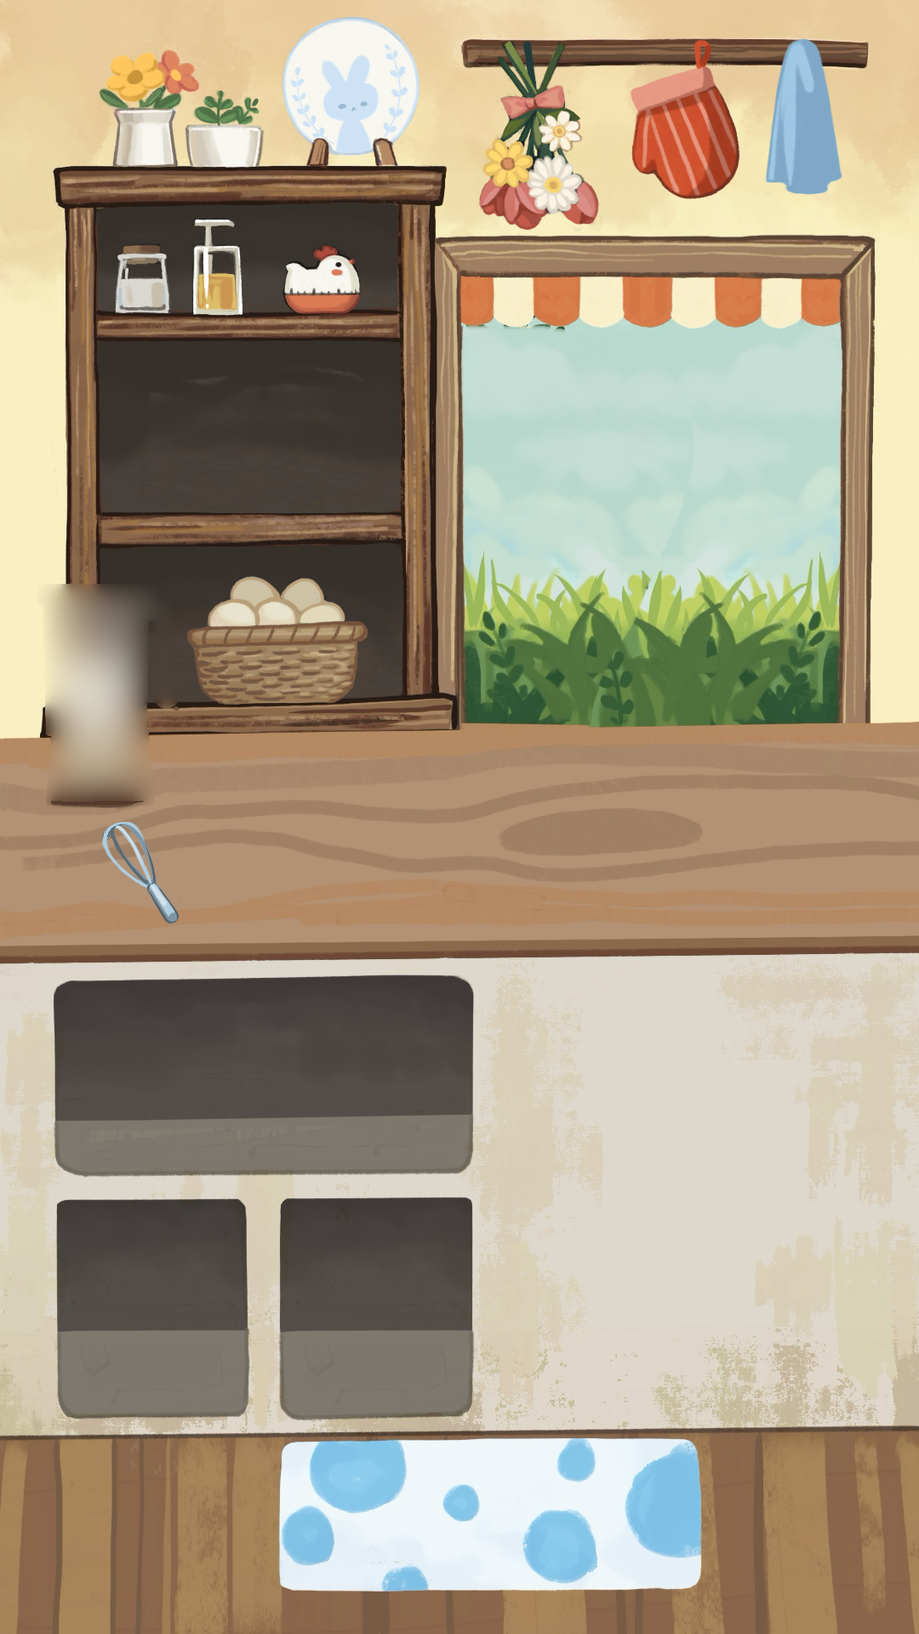
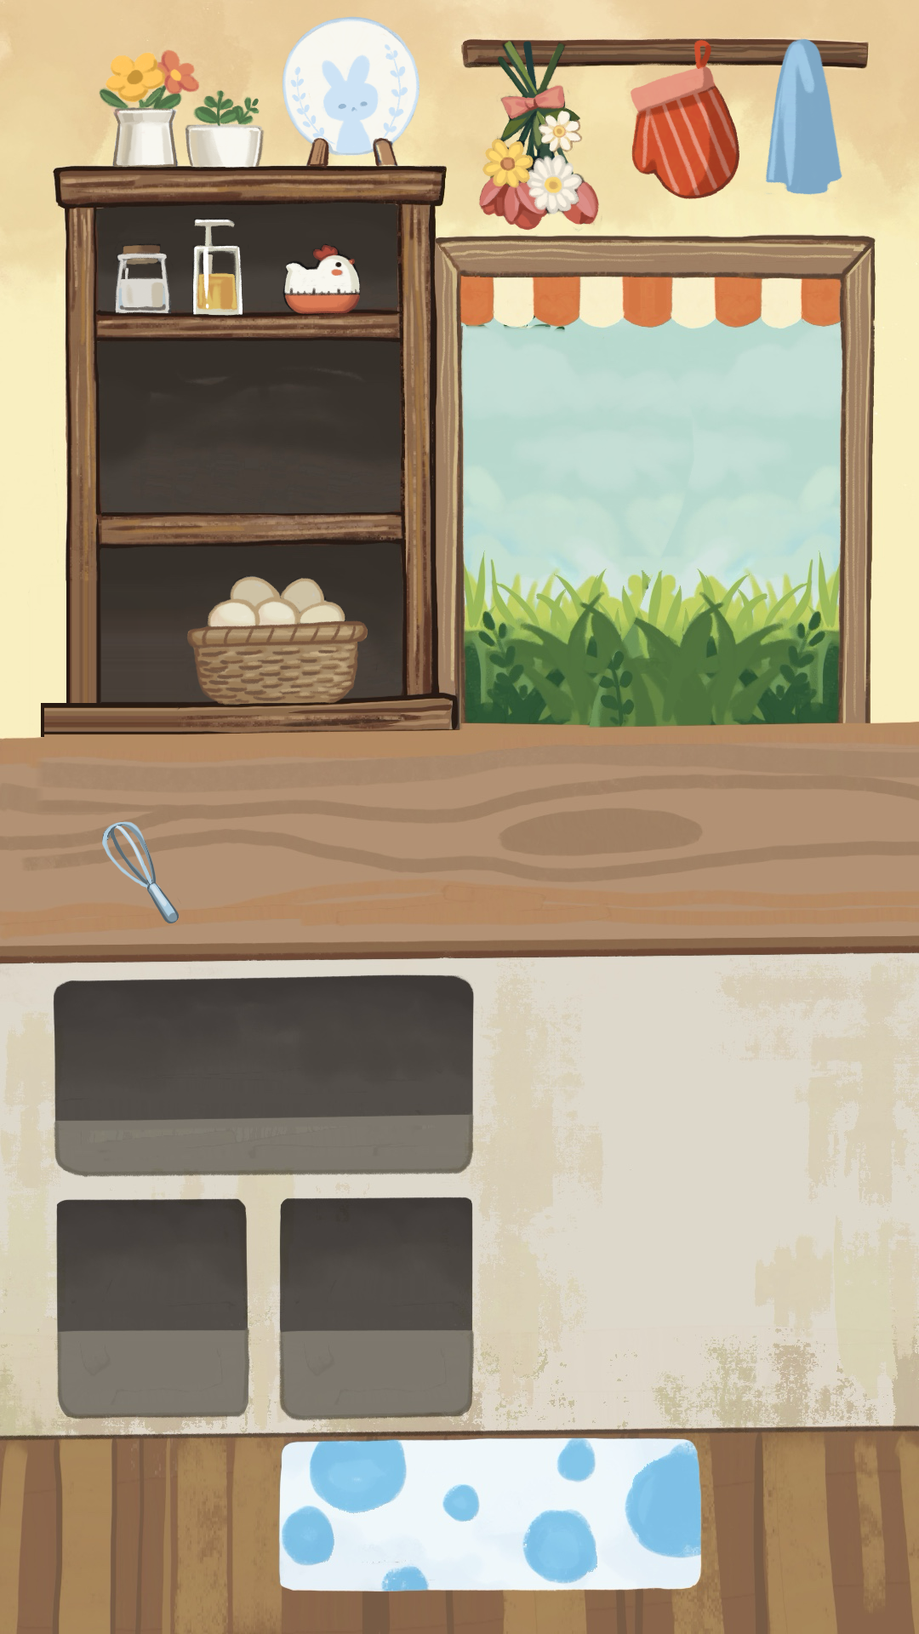
15 November: kitchen blender's blurred patch repainted, truck stands still with a window light that blinks while the kitchen cooks, patience flowers larger; background-layer analysis and demos on the report
- kitchen_bg_notree.png: the old blender's blurred patch (wider than the blender picture laid over it) rebuilt from the
  wall, window post, sill and counter around it (Store/kitchen_blender_patch_2026-11-15/patch_blender_smear.py).
- Truck: BalatroWobble switched off at setup; DayNightTint's window lights are off by day, steady warm at dusk and
  night, and blink while OvenKitchenBase.AnyBaking, the blender or the kitchen waffle machine runs.
- PatienceMeter.Scale 0.65 -> 0.8.
- Report: how each chapter's background is built, five demo layers between customers and table (shown live through
  Docs/tools/autoplay/bglayer_demo.py, art in Store/bg_layer_2026-11-15; nothing of it in the project).
No build (owner: not until told).

Changed region(s): [[0.0306, 0.3438, 0.1833, 0.5]]

diff --git a/Docs/tools/report_page/index.html b/Docs/tools/report_page/index.html
@@ -80,15 +80,110 @@ h3 small{font-weight:600;color:var(--soft);font-size:13px;margin-left:6px}
 <div class="grid">
 <div class="who p1"><h3>You</h3>
 <p><b>Test build 26.11.21 (31)</b> on TestFlight: your test runs today.</p>
+<p><b>Today's fixes, in no build yet</b> (Current): the kitchen blender's blurry edge, the truck's window light, larger patience flowers.</p>
+<p><b>Background layer:</b> the analysis and five demos are in Current; pick per chapter.</p>
 <p><b>What's New words</b> for the release (Current).</p>
 <p><b>At Apple:</b> build 28 went from waiting to "In Review" this morning. Untouched.</p></div>
-<div class="who p2"><h3>Me</h3><p>Fix what your test runs find. Nothing goes to Apple before your word.</p></div>
+<div class="who p2"><h3>Me</h3><p>Build the background layer you pick. No build and nothing to Apple before your word.</p></div>
 </div>
 
 <h2 id="qa"><span class="n">2</span>Q&amp;A</h2>
 <p class="sub" style="margin:0 0 8px">Nothing open.</p>
 
 <h2 id="current"><span class="n">3</span>Current</h2>
+
+<div class="card">
+<p style="margin-top:0"><b>Kitchen blender's blurry left edge: found and fixed, 15 November.</b> What was wrong: the kitchen background still had the old blender under the new one, blurred out as a patch. That patch is wider than the blender picture on top, so the blur showed at its left (and more when the blender shakes). The blender picture itself was cut correctly.</p>
+<figure><img src="blender_ba.jpg" alt="The blender before, with a blurred smear at its left, and after, clean"><figcaption>Before and after, chapter 2 kitchen in the editor. I repainted the patch from the picture around it: wall, window post, sill and counter.</figcaption></figure>
+<ul class="checks">
+<li><label><input type="checkbox" data-id="cur.blender.ship"> Good to ship</label></li>
+<li><label><input type="checkbox" data-id="cur.blender.redo"> Not yet, I will say what</label></li>
+</ul>
+</div>
+
+<div class="card">
+<p style="margin-top:0"><b>Truck: no wiggle, and a window light with three states, 15 November.</b></p>
+<figure><img src="truck_light.jpg" alt="The truck with its window dark, and with the window lit"><figcaption>Left: kitchen idle by day, light off. Right: the light on, as it shows while blinking and at night.</figcaption></figure>
+<ul>
+<li><b>Off:</b> by day, when the kitchen is making nothing.</li>
+<li><b>Blinking:</b> while the kitchen cooks: an oven baking, the blender or the waffle machine running. By day and by night, a little faster than once a second.</li>
+<li><b>Warm yellow, steady:</b> from dusk into night. This light was already there; it now gives way to the blink while something cooks.</li>
+<li>Checked in the editor: the truck stands still; the light read off, then swung between dim and bright during an 8-second bread bake, and was steady with the night forced.</li>
+<li>Kept: the glow around the truck when a food runs out.</li>
+</ul>
+<ul class="checks">
+<li><label><input type="checkbox" data-id="cur.trucklight.ship"> Good to ship</label></li>
+<li><label><input type="checkbox" data-id="cur.trucklight.redo"> Change it, I will say what</label></li>
+</ul>
+</div>
+
+<div class="card">
+<p style="margin-top:0"><b>Patience flowers larger, 15 November.</b> About a quarter bigger.</p>
+<figure><img src="flowers_ba.jpg" alt="Order bubbles with small flowers before and larger flowers after"><figcaption>Before and after.</figcaption></figure>
+<ul class="checks">
+<li><label><input type="checkbox" data-id="cur.flowers.ship"> Good to ship</label></li>
+<li><label><input type="checkbox" data-id="cur.flowers.bigger"> Bigger still</label></li>
+<li><label><input type="checkbox" data-id="cur.flowers.redo"> Not yet, I will say what</label></li>
+</ul>
+</div>
+
+<div class="card">
+<p style="margin-top:0"><b>A picture layer between the customers and the table: analysis and demos, 15 November.</b> Nothing is changed in the game. The demos were shown live in the editor, between the customers and the table, and are not saved.</p>
+
+<p style="margin:10px 0 4px"><b>Chapter 1, how the painting is built, from the back to the front:</b></p>
+<div class="two">
+<figure><img src="bg_ch1_parts.jpg" alt="Chapter 1 background with its parts numbered 1 to 8"></figure>
+<ul>
+<li><b>1</b> Sky, a pale wash.</li>
+<li><b>2</b> Two tree trunks at the sides.</li>
+<li><b>3</b> Their crowns, with large flat leaves hanging into the picture.</li>
+<li><b>4</b> A row of round bushes with leaf sprigs.</li>
+<li><b>5</b> Tall dark blades and wheat stalks, mostly at the sides.</li>
+<li><b>6</b> The lawn, one flat yellow-green.</li>
+<li><b>7</b> The near grass: soft dark tufts with thin upright strokes.</li>
+<li><b>8</b> The table.</li>
+<li><b>Style:</b> flat shapes, no outlines, soft watercolour edges, four greens, darker and softer towards the front.</li>
+<li><b>What is missing:</b> the near grass (7) is part of the flat picture, so customers stand on top of it. Nothing overlaps them, and they look pasted on. Grass in front of them puts them in the grass.</li>
+</ul>
+</div>
+<figure><img src="bg_ch1_demos.jpg" alt="Chapter 1: now, and three demos with grass in front of the customer"><figcaption><b>A</b> the painting's own near grass, lifted off the lawn, so the style is the painting's. <b>B</b> grass I painted to match, taller at the sides. <b>C</b> tall blades at the sides only, the middle clear.</figcaption></figure>
+<ul class="checks">
+<li><label><input type="checkbox" data-id="cur.bg1.a"> Chapter 1: A</label></li>
+<li><label><input type="checkbox" data-id="cur.bg1.b"> Chapter 1: B</label></li>
+<li><label><input type="checkbox" data-id="cur.bg1.c"> Chapter 1: C</label></li>
+<li><label><input type="checkbox" data-id="cur.bg1.redo"> None, I will say what</label></li>
+</ul>
+
+<p style="margin:14px 0 4px"><b>Chapter 2:</b></p>
+<div class="two">
+<figure><img src="bg_ch2_parts.jpg" alt="Chapter 2 background with its parts numbered 1 to 8; the white line is where the table starts"></figure>
+<ul>
+<li><b>1</b> Sky and clouds. <b>2</b> Palms in the top corners. <b>3</b> The sea. <b>4</b> The foam line.</li>
+<li><b>5</b> A thin strip of sand, all that shows above the table (the white line).</li>
+<li><b>6</b> Plants at the sides.</li>
+<li><b>7</b> Plants and shells in the lower corners. The table hides them; players never see them.</li>
+<li><b>8</b> Sand under the table.</li>
+<li><b>Style:</b> soft gouache, pastel colours, no outlines.</li>
+</ul>
+</div>
+<figure><img src="bg_ch2_demos.jpg" alt="Chapter 2: now, and two demos with plants and shells in front of the customer"><figcaption><b>A</b> the painting's own hidden plants and shells, moved up to the table's edge in the corners. <b>B</b> the same smaller, with two small groups nearer the middle.</figcaption></figure>
+<ul class="checks">
+<li><label><input type="checkbox" data-id="cur.bg2.a"> Chapter 2: A</label></li>
+<li><label><input type="checkbox" data-id="cur.bg2.b"> Chapter 2: B</label></li>
+<li><label><input type="checkbox" data-id="cur.bg2.redo"> None, I will say what</label></li>
+</ul>
+
+<p style="margin:14px 0 4px"><b>How the layer goes in:</b></p>
+<ul>
+<li>One see-through strip per chapter, as wide as the screen, standing on the table's far edge. It is drawn after the customers and before the table. The hen, the jar and the truck stay in front of it; the yoga lady stays behind it.</li>
+<li>Low in the middle, so faces and order bubbles stay clear; it can be taller at the sides.</li>
+<li>Still to do once you pick: it must darken with evening and night like the background, and it could sway a little.</li>
+<li><b>What I see in the demos:</b> in chapter 1, A hides a short customer up to the shoulders, so its height needs tuning; B's blades are sharper than the painting's brush strokes.</li>
+</ul>
+<ul class="checks">
+<li><label><input type="checkbox" data-id="cur.bg.gpt"> Also ask ChatGPT to paint versions from a brief</label></li>
+</ul>
+</div>
 
 <div class="card">
 <p style="margin-top:0"><b>What's New for the next release: your words needed.</b> Nothing is changed at Apple; the store still says "Bug fixes". It goes in with the next release, in the words you choose.</p>

diff --git a/Docs/tools/autoplay/truck_test.py b/Docs/tools/autoplay/truck_test.py
@@ -1,0 +1,39 @@
+"""Truck window light and patience flower check (15 November 2026): day 1; the truck at rest (wiggle off, light off), a
+bake started in the kitchen (light blinking), the night stage forced (steady warm light), and the flowers' new size."""
+import sys, time, re
+sys.path.insert(0, "/Users/betzthebest/Desktop/Sept/FoodTruckCafe/Docs/tools")
+import unity_mcp as U
[1 lines of base64/hex data omitted]
+def res(t):
+    m = re.search(r'"result":"(.*?)","compiler"', t, re.S); return m.group(1) if m else t[-700:]
+def ex(code): return res(U.call("execute_code", {"action": "execute", "code": code}))
+def snap(n): ex('ScreenCapture.CaptureScreenshot("/tmp/ftc/popframes/%s.png"); return "snap";' % n); time.sleep(1.0)
+TRUCK = '''var b = GameObject.Find("KitchenButton"); var rt = (RectTransform)b.transform; var w = b.GetComponent<BalatroWobble>(); var sb = new System.Text.StringBuilder();
+sb.Append("wobble " + (w == null ? "none" : (w.enabled ? "ON" : "off")) + " pos " + rt.anchoredPosition.ToString("F2") + " rot " + rt.localEulerAngles.z.ToString("F2") + " scale " + rt.localScale.x.ToString("F3") + " lights");
+foreach (Transform t in rt) if (t.name == "WindowLight") sb.Append(" " + t.GetComponent<UnityEngine.UI.Image>().color.a.ToString("F2"));
+sb.Append(" baking " + OvenKitchenBase.AnyBaking() + " stage " + DayNightTint.CurrentStage.ToString("F2")); return sb.ToString();'''
+U.call("manage_editor", {"action": "stop"}); time.sleep(2)
+U.call("manage_editor", {"action": "play"}); time.sleep(9)
+print(ex(open("/tmp/ftc/setup_day1.cs").read()))
+print(ex(open(A + "goday.cs").read().replace("DAY", "0"))); time.sleep(8)
+print(ex(open(A + "startday.cs").read())); time.sleep(5.0)
+for i in range(3): print("idle:", ex(TRUCK)); time.sleep(0.7)
+snap("truck_idle")
+print(ex('KitchenSceneManager.Instance.OpenKitchen(); return "kitchen open";')); time.sleep(1.5)
+print(ex('''foreach (var o in UnityEngine.Object.FindObjectsOfType<OvenKitchenBase>()) { o.StartBake("Bread"); if (o.IsBaking) return "baking in " + o.name + " for " + o.BakeTime + " s"; } return "no oven started";''')); time.sleep(0.8)
+print(ex('KitchenSceneManager.Instance.CloseKitchen(); return "kitchen closed";')); time.sleep(1.0)
+vals = []
+for i in range(10):
+    r = ex(TRUCK); vals.append(r.split("lights")[1].split(" baking")[0].strip()); 
+    if i in (0, 9): print("cooking:", r)
+    time.sleep(0.13)
+print("light over 10 reads:", " | ".join(vals))
+for i in range(8):
+    r = ex('var b = GameObject.Find("KitchenButton"); float a = 0f; foreach (Transform t in b.transform) if (t.name == "WindowLight") a = Mathf.Max(a, t.GetComponent<UnityEngine.UI.Image>().color.a); if (a %s) { ScreenCapture.CaptureScreenshot("/tmp/ftc/popframes/truck_cook_%s.png"); return "snap at " + a.ToString("F2"); } return "wait " + a.ToString("F2");' % (("> 0.85f", "on") if i < 4 else ("< 0.2f", "off")))
+    if r.startswith("snap"): print(r); time.sleep(1.0); 
+    else: time.sleep(0.11)
+print(ex('''var dn = UnityEngine.Object.FindObjectOfType<DayNightTint>(); var F = System.Reflection.BindingFlags.NonPublic | System.Reflection.BindingFlags.Instance;
+typeof(DayNightTint).GetField("stage", F).SetValue(dn, 2f); typeof(DayNightTint).GetField("kitchenCooking", F).SetValue(dn, false); typeof(DayNightTint).GetField("cookingCheckAt", F).SetValue(dn, Time.unscaledTime + 5f);
+typeof(DayNightTint).GetMethod("UpdateNightLights", F).Invoke(dn, null); var b = GameObject.Find("KitchenButton"); var sb = new System.Text.StringBuilder("night, not cooking: lights");
+foreach (Transform t in b.transform) if (t.name == "WindowLight") sb.Append(" " + t.GetComponent<UnityEngine.UI.Image>().color.a.ToString("F2")); return sb.ToString();'''))
+U.call("manage_editor", {"action": "stop"})

diff --git a/Docs/tools/autoplay/blender_probe.py b/Docs/tools/autoplay/blender_probe.py
@@ -1,0 +1,30 @@
+import sys, time, re
+sys.path.insert(0, "/Users/betzthebest/Desktop/Sept/FoodTruckCafe/Docs/tools")
+import unity_mcp as U
[1 lines of base64/hex data omitted]
+def res(t):
+    m = re.search(r'"result":"(.*?)","compiler"', t, re.S); return m.group(1) if m else t[-700:]
+def ex(code): return res(U.call("execute_code", {"action": "execute", "code": code}))
+tag = sys.argv[1]
+U.call("manage_editor", {"action": "stop"}); time.sleep(2)
+U.call("manage_editor", {"action": "play"}); time.sleep(9)
+print(ex(open("/tmp/ftc/setup_day1.cs").read()))
+print(ex('var s = SessionManager.Instance.GetCurrentSession(); s.levelsCompleted = 12; s.tutorial2Seen = true; return "ch2";'))
+print(ex(open(A + "goday.cs").read().replace("DAY", "12"))); time.sleep(8)
+for _ in range(12):
+    r = ex(open(A + "tutstep.cs").read())
+    if r == "T|none": break
+    time.sleep(1.0)
+print(ex(open(A + "startday.cs").read())); time.sleep(1.5)
+print(ex('KitchenSceneManager.Instance.OpenKitchen(); return "open";')); time.sleep(2.0)
+print(ex('''var sb = new System.Text.StringBuilder(); var b = GameObject.Find("Blender"); if (b == null) return "no blender";
+var rt = (RectTransform)b.transform; var img = b.GetComponent<UnityEngine.UI.Image>(); var c = new Vector3[4]; rt.GetWorldCorners(c);
+var cam = b.GetComponentInParent<Canvas>().worldCamera; Vector2 p0 = RectTransformUtility.WorldToScreenPoint(cam, c[0]), p2 = RectTransformUtility.WorldToScreenPoint(cam, c[2]);
+sb.Append("blender sprite " + img.sprite.name + " " + img.sprite.rect.size + " tex " + img.sprite.texture.width + "x" + img.sprite.texture.height + " format " + img.sprite.texture.format + " filter " + img.sprite.texture.filterMode + " screen box " + p0.ToString("F1") + " .. " + p2.ToString("F1") + " screen " + Screen.width + "x" + Screen.height + " | ");
+var bg = b.transform.parent; var bi = bg.GetComponent<UnityEngine.UI.Image>(); sb.Append("bg sprite " + (bi != null && bi.sprite != null ? bi.sprite.name + " " + bi.sprite.rect.size + " preserve " + bi.preserveAspect + " format " + bi.sprite.texture.format : "none") + " bg rect " + ((RectTransform)bg).rect.size + " | ");
+foreach (Transform t in b.transform) { var ti = t.GetComponent<UnityEngine.UI.Image>(); sb.Append(t.name + (ti != null && ti.sprite != null ? " " + ti.sprite.name + " color " + ti.color : "") + "; "); }
+return sb.ToString();'''))
+ex('ScreenCapture.CaptureScreenshot("/tmp/ftc/popframes/blender_%s.png"); return "snap";' % tag); time.sleep(1.5)
+print(ex('var b = GameObject.Find("Blender"); b.GetComponent<UnityEngine.UI.Image>().enabled = false; foreach (Transform t in b.transform) t.gameObject.SetActive(false); return "overlay hidden";')); time.sleep(0.5)
+ex('ScreenCapture.CaptureScreenshot("/tmp/ftc/popframes/blender_%s_bgonly.png"); return "snap";' % tag); time.sleep(1.5)
+U.call("manage_editor", {"action": "stop"})

diff --git a/Docs/tools/autoplay/bglayer_demo.py b/Docs/tools/autoplay/bglayer_demo.py
@@ -1,0 +1,36 @@
+"""Demo of a picture layer between the customers and the table (15 November 2026): strips from Store/bg_layer_2026-11-15/out
+are shown on the sorting layer between Default (customers) and Table, in a running day, and captured. Nothing is saved
+in the project. Usage: bglayer_demo.py <chapter 1|2> name[:yOffset] ..."""
+import sys, time, re
+sys.path.insert(0, "/Users/betzthebest/Desktop/Sept/FoodTruckCafe/Docs/tools")
+import unity_mcp as U
[1 lines of base64/hex data omitted]
+O = "/Users/betzthebest/Desktop/Sept/Store/bg_layer_2026-11-15/out/"
+def res(t):
+    m = re.search(r'"result":"(.*?)","compiler"', t, re.S); return m.group(1) if m else t[-600:]
+def ex(code): return res(U.call("execute_code", {"action": "execute", "code": code}))
+ch = sys.argv[1]
+U.call("manage_editor", {"action": "stop"}); time.sleep(2)
+U.call("manage_editor", {"action": "play"}); time.sleep(9)
+print(ex(open("/tmp/ftc/setup_day1.cs").read()))
+if ch == "2": print(ex('var s = SessionManager.Instance.GetCurrentSession(); s.levelsCompleted = 12; s.tutorial2Seen = true; return "ch2";'))
+print(ex(open(A + "goday.cs").read().replace("DAY", "12" if ch == "2" else "0"))); time.sleep(8)
+for _ in range(12):
+    r = ex(open(A + "tutstep.cs").read())
+    if r == "T|none": break
+    time.sleep(1.0)
+print(ex(open(A + "startday.cs").read())); time.sleep(6.5)
+ex('Time.timeScale = 0.02f; return "slow";')
+ex('ScreenCapture.CaptureScreenshot("/tmp/ftc/popframes/bgl_ch%s_none.png"); return "snap";' % ch); time.sleep(1.2)
+SHOW = '''var old = GameObject.Find("BgLayerDemo"); if (old != null) UnityEngine.Object.DestroyImmediate(old);
+var tex = new Texture2D(2, 2, TextureFormat.RGBA32, false); tex.LoadImage(System.IO.File.ReadAllBytes("PATH")); tex.wrapMode = TextureWrapMode.Clamp;
+var sp = Sprite.Create(tex, new Rect(0, 0, tex.width, tex.height), new Vector2(0.5f, 0f), tex.width / 4.6f);
+var go = new GameObject("BgLayerDemo"); go.transform.position = new Vector3(0f, YOFFf, 0f);
+var sr = go.AddComponent<SpriteRenderer>(); sr.sprite = sp; sr.sortingLayerName = "Customoers"; sr.sortingOrder = 0;
+return "shown " + tex.width + "x" + tex.height + " layer " + sr.sortingLayerName + " customers " + UnityEngine.Object.FindObjectsOfType<CustomerController>().Length;'''
+for a in sys.argv[2:]:
+    name, _, yo = a.partition(":"); yo = yo or "-0.06"
+    print(name, ex(SHOW.replace("PATH", O + name + ".png").replace("YOFF", yo))); time.sleep(0.6)
+    ex('ScreenCapture.CaptureScreenshot("/tmp/ftc/popframes/bgl_ch%s_%s.png"); return "snap";' % (ch, name)); time.sleep(1.2)
+ex('Time.timeScale = 1f; return "speed";')
+U.call("manage_editor", {"action": "stop"})

diff --git a/Assets/Scripts/LevelControl/DayNightTint.cs b/Assets/Scripts/LevelControl/DayNightTint.cs
@@ -312,14 +312,33 @@ public class DayNightTint : MonoBehaviour
         // chapter 2 has no extra light of its own (owner, 10 November: "keep the fireflies, drop the lantern lights")
     }
 
+    // The truck's window light has three states (owner, 15 November 2026: "When the kitchen isn't making anything, I
+    // want the light to be off, when it is cooking something, give it a blinking light. At night, give it a warm
+    // yellow light"): off by day, a steady warm yellow at dusk and night, and blinking while the kitchen cooks (an
+    // oven baking, the blender or the kitchen's waffle machine running), by day and by night.
+    private bool kitchenCooking; private float cookingCheckAt;
+    private const float BlinkPerSecond = 1.4f;
+
+    private static bool KitchenIsCooking()
+    {
+        if (OvenKitchenBase.AnyBaking()) return true;
+        var blender = FindObjectOfType<BlenderAnim>(); if (blender != null && blender.IsBlending) return true;
+        var waffle = FindObjectOfType<WaffleAnim>(); return waffle != null && waffle.IsBaking;
+    }
+
     private void UpdateNightLights()
     {
         var k = stage <= 1f ? 0.6f * stage : 0.6f + 0.4f * (stage - 1f);   // dusk 0.6, night 1
         var t = Time.time;
+        if (Time.unscaledTime >= cookingCheckAt) { cookingCheckAt = Time.unscaledTime + 0.25f; kitchenCooking = KitchenIsCooking(); }
+        // the blink: on for half of each beat with soft edges, between almost dark and bright
+        var beat = (Time.unscaledTime * BlinkPerSecond) % 1f;
+        var blink = kitchenCooking ? Mathf.Lerp(0.12f, 0.95f, Mathf.SmoothStep(0f, 1f, Mathf.Clamp01(Mathf.Min(beat, 1f - beat) * 8f - 1f))) : 0f;
         for (var i = 0; i < truckLights.Count; i++)
         {
             if (truckLights[i] == null) continue;
-            var c = truckLights[i].color; c.a = k * (0.78f + 0.07f * Mathf.Sin(t * 5.3f + i)); truckLights[i].color = c;
+            var steady = k * (0.78f + 0.07f * Mathf.Sin(t * 5.3f + i));
+            var c = truckLights[i].color; c.a = kitchenCooking ? blink : steady; truckLights[i].color = c;
         }
         for (var i = 0; i < fireflies.Length; i++)
         {

diff --git a/Docs/tools/autoplay/flower_size.py b/Docs/tools/autoplay/flower_size.py
@@ -1,0 +1,21 @@
+import sys, time, re
+sys.path.insert(0, "/Users/betzthebest/Desktop/Sept/FoodTruckCafe/Docs/tools")
+import unity_mcp as U
[1 lines of base64/hex data omitted]
+def res(t):
+    m = re.search(r'"result":"(.*?)","compiler"', t, re.S); return m.group(1) if m else t[-700:]
+def ex(code): return res(U.call("execute_code", {"action": "execute", "code": code}))
+U.call("manage_editor", {"action": "stop"}); time.sleep(2)
+U.call("manage_editor", {"action": "play"}); time.sleep(9)
+print(ex(open("/tmp/ftc/setup_day1.cs").read()))
+print(ex(open(A + "goday.cs").read().replace("DAY", "0"))); time.sleep(8)
+print(ex(open(A + "startday.cs").read()))
+for i in range(60):
+    r = ex('''var os = UnityEngine.Object.FindObjectOfType<OrderSystem>(); var F = System.Reflection.BindingFlags.NonPublic | System.Reflection.BindingFlags.Instance;
+var list = (System.Collections.IList)typeof(OrderSystem).GetField("orders", F).GetValue(os); int fresh = 0; foreach (OrderSystem.ActiveOrder o in list) if (o.active && o.timer > o.displayTime - 1.2f) fresh++;
+if (list.Count >= 2 && fresh >= 1) { os.freezeTimer = true; foreach (OrderSystem.ActiveOrder o in list) o.timer = o.displayTime; return "ready " + list.Count; } return "wait " + list.Count;''')
+    if r.startswith("ready"): print(r); break
+    time.sleep(0.3)
+time.sleep(1.2)
+ex('ScreenCapture.CaptureScreenshot("/tmp/ftc/popframes/flowers_new.png"); return "snap";'); time.sleep(1.2)
+U.call("manage_editor", {"action": "stop"})

diff --git a/Assets/Scripts/Utils/KitchenButtonOverTable.cs b/Assets/Scripts/Utils/KitchenButtonOverTable.cs
@@ -40,7 +40,9 @@ public static class KitchenButtonOverTable
         rt.anchorMin = anchorMin; rt.anchorMax = anchorMax; rt.sizeDelta = size; rt.pivot = pivot;
         // anchored to the left middle: y 0 is the cloth's top edge; bottom third of the button below it
         rt.anchoredPosition = new Vector2(anchored.x, size.y * (0.5f - OverlapShare));
-        var wobble = button.GetComponent<BalatroWobble>();   // it writes its rest position every frame
-        if (wobble != null) wobble.Rebase();
+        // no wiggle on the truck (owner, 15 November 2026: "Remove the wiggle effect of the truck icon"): the wobble
+        // takes the new place as its rest and is switched off there
+        var wobble = button.GetComponent<BalatroWobble>();
+        if (wobble != null) { wobble.Rebase(); wobble.ResetTransform(); wobble.enabled = false; }
     }
 }

diff --git a/Assets/Scripts/Customer/PatienceMeter.cs b/Assets/Scripts/Customer/PatienceMeter.cs
@@ -10,7 +10,7 @@ using UnityEngine;
 public class PatienceMeter : MonoBehaviour
 {
     public static readonly Vector3 WorldPosition = new Vector3(-1.11f, 3.3f, 0f);    // in the bubble root's space: centred over the bubble, sitting on its top edge (owner 13 October: closer to the bubble)
-    public const float Scale = 0.65f;      // the whole set, smaller (owner, 13 October, fourth pass)
+    public const float Scale = 0.8f;       // the whole set; 0.65 until 15 November 2026 (owner: "make the patiences flowers slightly larger, i want them to look more obvious")
     public const int Flowers = 3;
     const float Spacing = 0.45f;           // between flower centres, world units
     const float PetalRadius = 0.15f;

diff --git a/Assets/Scripts/Food/FoodInKitchen/OvenKitchenBase.cs b/Assets/Scripts/Food/FoodInKitchen/OvenKitchenBase.cs
@@ -149,6 +149,14 @@ public abstract class OvenKitchenBase : MonoBehaviour, IPointerClickHandler
         return false;
     }
 
+    /// True while any oven is baking (the truck's window light blinks then; owner, 15 November 2026).
+    public static bool AnyBaking()
+    {
+        foreach (var kv in Recipes)
+            if (!string.IsNullOrEmpty(kv.Value) && BakeTimes.TryGetValue(kv.Value, out var t) && CooldownRegistry.IsOnCooldown(kv.Key, t)) return true;
+        return false;
+    }
+
     private void OnBakeComplete()
     {
         var key = GetCooldownKey();
